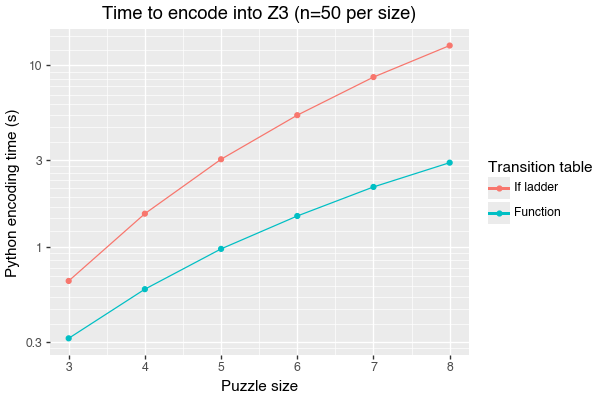
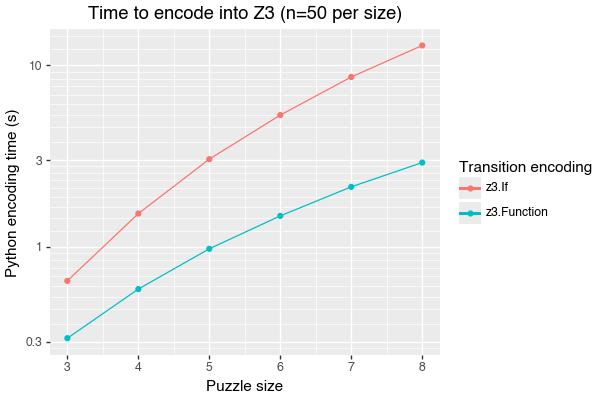
checkpoint regexle again, before rework

diff --git a/content/post/regex-crosswords-z3/index.md b/content/post/regex-crosswords-z3/index.md
@@ -334,18 +334,13 @@ for i, ch in enumerate(chars):
     solv.add(self.build_next_state(clue, states[i], ch) == states[i + 1])
 ```
 
-This approach once again massively sped up the time for Z3 to solve a given puzzle:
+Indeed, this approach turned out to massively speed up the time that Z3 spent solving puzzles. Unfortunately, it does so at the expense of spending much more time in Python encoding the puzzle into a Z3 AST, due to evaluating `build_next_state()` once per character per clue, instead of just once per clue:
 
-![Z3 solve time, function defined by pointwise assertions vs a big `if` expression, over a range of puzzle sizes. The `if` ladder is consistently around one tenth the time](if-v-function.png "Line chart of mean Z3 solve time as a function of puzzle size, for the previous approach compared to defining the transition as a big if-then ladder.")
-{.center}
+![Time spent in Z3, and time spent in Python encoding a puzzle, to solve a range of puzzle sizes, using the two different encoding strategies for the transition table. The `if` ladder is about 10x faster for Z3 to solve, but takes about 3x as long to encode. The `if` ladder wins on total time only for large puzzles](if-v-function-all.png "A plot of time spent in Python, in Z3, and the sum of both, across puzzle sizes, for our two representations of the transition table.")
 
-However, it comes at a cost: duplicating the transition table for every character blows up the size of our Z3 program, but also blows up the amount of time we spend encoding the problem in Python, since we evaluate `build_next_state` each time:
+It really feels like we ought to be able to get the both of both worlds, somehow.
 
-![Time to encode a puzzle into Z3 for the same two approaches. The `If` ladder is about 3x slower across puzzle sizes, to a max of about 10s/puzzle at side=8.](if-v-function-py-time.png "Line chart of the mean time spent encoding a puzzle into Z3 in Python, for the same puzzles and approaches as the previous chart.")
-{.center}
-
-We've gained more than we lost, but can we have the best of both worlds, somehow?
-
+### So many ways to describe a function
 
 ## Using Z3's `RegEx` theory
 
